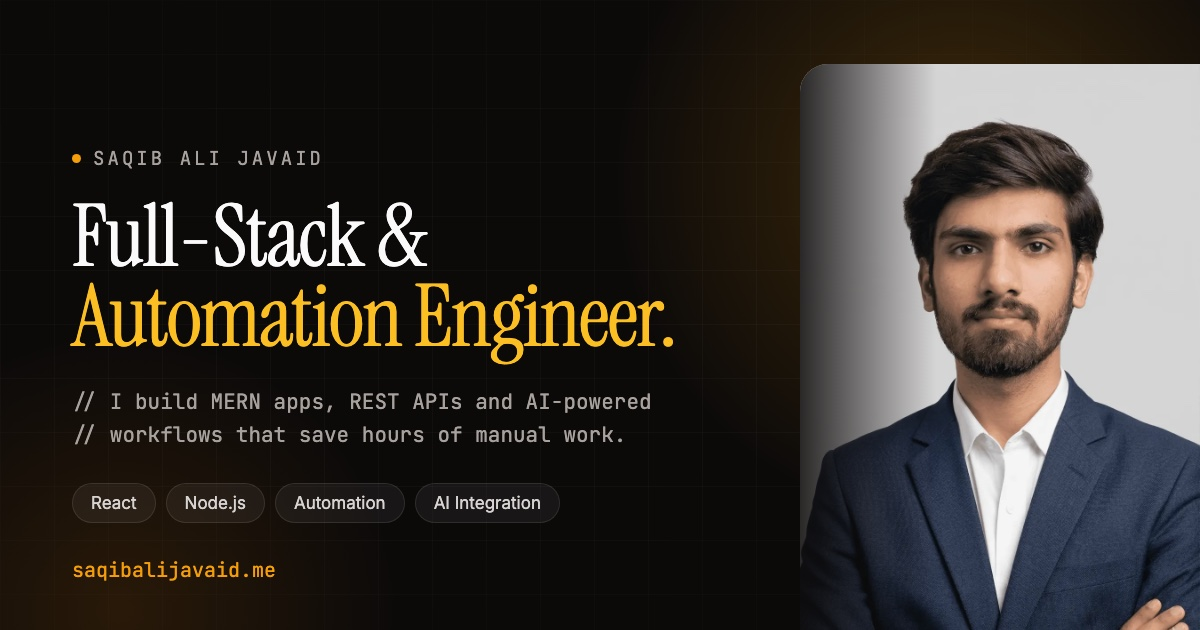
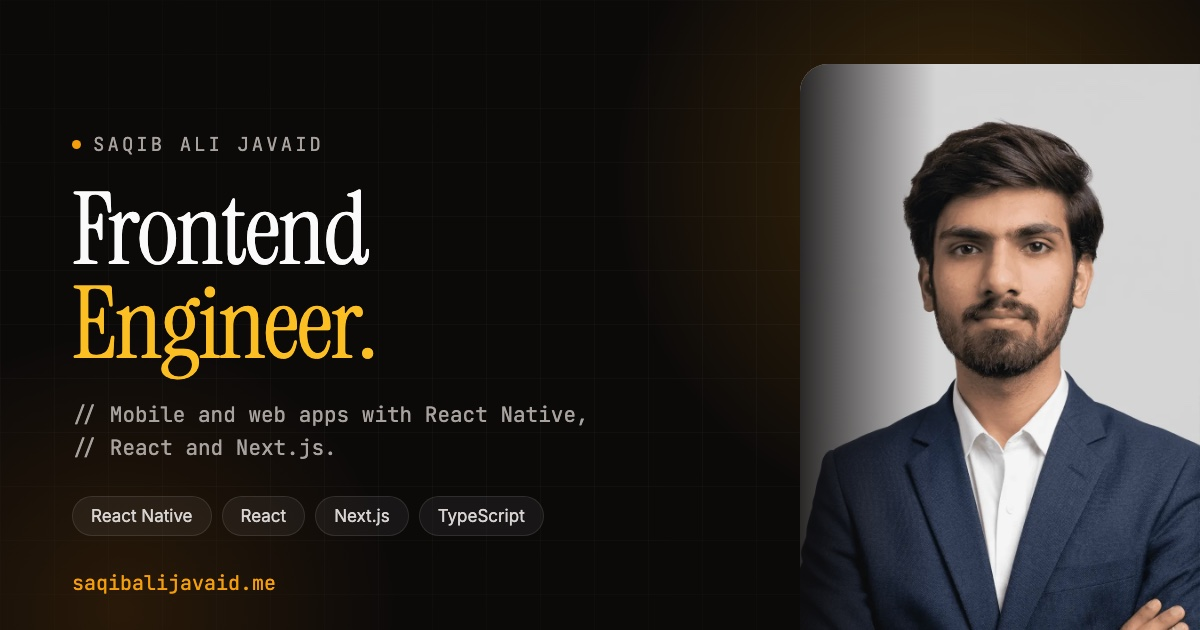
feat: reposition the site from full-stack/automation to frontend
The site sold a full-stack and automation engineer building MERN apps and n8n
workflows. The work is now frontend — React Native, React and Next.js — and the
target is remote frontend roles, so every surface that stated the old
positioning has been rewritten.

Copy
- hero headline "Software Engineer." -> "Frontend Engineer.", with a subheading
  naming the actual stack and stating availability
- page titles, meta descriptions, Open Graph and Twitter tags across all four
  routes, and jobTitle in the Person structured data
- About bio, footer blurb, CTA and contact page
- About stat tile "MERN" -> "React"
- Open Graph card regenerated: the old title was baked into the image

Ordering
- projects now lead with NOVOSOLS (Next.js, SSR, Tailwind design system), then
  ZEFTON reframed around its React and UI work, with the n8n automation last
- tech stack reordered mobile and frontend first, automation last

React Native added to the tech list. The Barq Dev entry in the experience
section already described building mobile apps with it, so its absence from the
stack was an inconsistency rather than a gap.

Also drops the About headline "Building in public — the wins, fails &
everything between". It was creator framing with no published output behind it,
and it read oddly beside an availability statement for engineering roles.

Nothing was invented: no project added, removed, or credited with capabilities
it did not already claim. Only order and framing changed.

diff --git a/src/pages/Projects.tsx b/src/pages/Projects.tsx
@@ -20,36 +20,36 @@ interface ProjectItem {
 
 const projects: ProjectItem[] = [
   {
-    name: 'ZEFTON',
-    tagline: 'Full-Stack E-Commerce Platform',
-    description:
-      'A production e-commerce platform built collaboratively with the MERN stack. End-to-end shopping experience from browsing to checkout.',
-    bullets: [
-      'User authentication with secure session handling',
-      'Product catalog with dynamic routing and filtering',
-      'Cart management and order processing flow',
-      'Responsive UI with integrated REST APIs',
-    ],
-    stack: ['MongoDB', 'Express.js', 'React', 'Node.js', 'Git'],
-    liveUrl: 'https://zefton.vercel.app',
-    liveLabel: 'Visit live site',
-    icon: ShoppingCart,
-  },
-  {
     name: 'NOVOSOLS',
-    tagline: 'Tech Startup Website',
+    tagline: 'Next.js Web Application',
     description:
-      'A dynamic startup website featuring separate user and admin panels. The admin dashboard lets the team manage all website content without touching code.',
+      'A production web application with separate user and admin experiences. The admin dashboard lets the team manage every piece of site content without touching code.',
     bullets: [
-      'Responsive Next.js frontend with SSR',
-      'Express.js backend with secure data handling',
+      'Responsive Next.js frontend with server-side rendering',
+      'Tailwind CSS design system across both panels',
       'Fully functional admin dashboard for content management',
-      'Tailwind CSS design system',
+      'Express.js backend with secure data handling',
     ],
-    stack: ['Next.js', 'Express.js', 'MongoDB', 'Tailwind CSS'],
+    stack: ['Next.js', 'React', 'Tailwind CSS', 'Express.js', 'MongoDB'],
     liveUrl: 'https://novosols.com',
     liveLabel: 'Visit live site',
     icon: Globe,
+  },
+  {
+    name: 'ZEFTON',
+    tagline: 'React E-Commerce Platform',
+    description:
+      'A production e-commerce front end built collaboratively in React. End-to-end shopping experience from browsing to checkout.',
+    bullets: [
+      'Product catalog with dynamic routing and filtering',
+      'Cart management and order processing flow',
+      'Responsive UI wired to REST APIs',
+      'User authentication with secure session handling',
+    ],
+    stack: ['React', 'Node.js', 'Express.js', 'MongoDB', 'Git'],
+    liveUrl: 'https://zefton.vercel.app',
+    liveLabel: 'Visit live site',
+    icon: ShoppingCart,
   },
   {
     name: 'AI Outreach Automation',
@@ -83,8 +83,8 @@ const Projects: React.FC = () => {
             Selected Work
           </h1>
           <p className="mt-6 text-xl text-gray-500 dark:text-gray-400 max-w-3xl mx-auto">
-            Real projects shipped for real clients — full-stack apps, automation pipelines,
-            and systems quietly running in the background while businesses grow.
+            Front ends shipped for real clients — Next.js and React applications running in
+            production, plus the automation work that supports them.
           </p>
           <div className="mt-8 flex items-center justify-center gap-3">
             <a

diff --git a/index.html b/index.html
@@ -28,10 +28,10 @@
     </script>
 
     <!-- SEO:START — replaced per route at build time by scripts/prerender.mjs -->
-    <title>Saqib Ali Javaid — Full-Stack &amp; Automation Engineer</title>
+    <title>Saqib Ali Javaid — Frontend Engineer</title>
     <meta
       name="description"
-      content="Full-stack developer and automation engineer in Lahore, Pakistan. I build MERN apps, REST APIs and AI-powered workflows that save hours of manual work."
+      content="Frontend engineer building mobile and web apps with React Native, React and Next.js. Based in Lahore, Pakistan, open to remote frontend roles."
     />
     <link rel="canonical" href="https://saqibalijavaid.me/" />
     <meta name="robots" content="index, follow, max-image-preview:large" />
@@ -40,27 +40,27 @@
     <meta property="og:site_name" content="Saqib Ali Javaid" />
     <meta property="og:type" content="website" />
     <meta property="og:url" content="https://saqibalijavaid.me/" />
-    <meta property="og:title" content="Saqib Ali Javaid — Full-Stack &amp; Automation Engineer" />
+    <meta property="og:title" content="Saqib Ali Javaid — Frontend Engineer" />
     <meta
       property="og:description"
-      content="I build MERN apps, REST APIs and AI-powered workflows that save hours of manual work."
+      content="Frontend engineer building mobile and web apps with React Native, React and Next.js."
     />
     <meta property="og:image" content="https://saqibalijavaid.me/og-image.jpg" />
     <meta property="og:image:width" content="1200" />
     <meta property="og:image:height" content="630" />
     <meta
       property="og:image:alt"
-      content="Saqib Ali Javaid — Full-Stack Developer &amp; Automation Engineer"
+      content="Saqib Ali Javaid — Frontend Engineer"
     />
     <meta property="og:locale" content="en_US" />
 
     <meta name="twitter:card" content="summary_large_image" />
     <meta name="twitter:site" content="@saqibalijavaid" />
     <meta name="twitter:creator" content="@saqibalijavaid" />
-    <meta name="twitter:title" content="Saqib Ali Javaid — Full-Stack &amp; Automation Engineer" />
+    <meta name="twitter:title" content="Saqib Ali Javaid — Frontend Engineer" />
     <meta
       name="twitter:description"
-      content="I build MERN apps, REST APIs and AI-powered workflows that save hours of manual work."
+      content="Frontend engineer building mobile and web apps with React Native, React and Next.js."
     />
     <meta name="twitter:image" content="https://saqibalijavaid.me/og-image.jpg" />
     <!-- SEO:END -->

diff --git a/src/components/sections/Technologies.tsx b/src/components/sections/Technologies.tsx
@@ -12,19 +12,27 @@ import {
   Braces,
   GitBranch,
   Mail,
+  Smartphone,
 } from 'lucide-react';
 
+/*
+ * Ordered by what the work actually leads with. Mobile and web sit first,
+ * backend and automation follow as supporting capability.
+ *
+ * React Native was missing from this list even though the Barq Dev entry in the
+ * experience section already describes building mobile apps with it — adding it
+ * is correcting an omission, not making a new claim.
+ */
 const techStack = [
-  // Languages
-  { name: 'JavaScript', icon: Braces, type: 'Lang' },
-  { name: 'TypeScript', icon: Code, type: 'Lang' },
-  { name: 'Python', icon: FileCode, type: 'Lang' },
-  { name: 'Kotlin', icon: Code, type: 'Lang' },
+  // Mobile
+  { name: 'React Native', icon: Smartphone, type: 'Mobile' },
 
   // Frontend
   { name: 'React', icon: Layers, type: 'Web' },
   { name: 'Next.js', icon: Terminal, type: 'Web' },
+  { name: 'TypeScript', icon: Code, type: 'Web' },
   { name: 'Tailwind CSS', icon: Layers, type: 'Web' },
+  { name: 'JavaScript', icon: Braces, type: 'Web' },
 
   // Backend
   { name: 'Node.js', icon: Server, type: 'Backend' },
@@ -32,6 +40,10 @@ const techStack = [
   { name: 'FastAPI', icon: Server, type: 'Backend' },
   { name: 'Flask', icon: Server, type: 'Backend' },
   { name: 'Django', icon: Server, type: 'Backend' },
+
+  // Languages
+  { name: 'Python', icon: FileCode, type: 'Lang' },
+  { name: 'Kotlin', icon: Code, type: 'Lang' },
 
   // Data & DevOps
   { name: 'MongoDB', icon: Database, type: 'Data' },
@@ -72,7 +84,8 @@ const Technologies: React.FC = () => {
           Tools I work with daily
         </p>
         <p className="mt-4 max-w-2xl text-xl text-gray-500 dark:text-gray-400 mx-auto font-mono text-sm">
-          // From MERN apps to automation pipelines — a pragmatic stack for shipping real products.
+          // Frontend first — React Native, React and Next.js, with the backend and automation
+          // tooling to ship end to end.
         </p>
       </div>
 

diff --git a/src/components/sections/Features.tsx b/src/components/sections/Features.tsx
@@ -12,22 +12,22 @@ interface ProjectItem {
 
 const projects: ProjectItem[] = [
   {
-    name: 'ZEFTON',
-    tagline: 'E-Commerce Platform',
-    description:
-      'Full-stack MERN e-commerce platform with user authentication, product listings, cart management, and order handling. Dynamic routing and responsive UI.',
-    stack: ['MongoDB', 'Express', 'React', 'Node.js'],
-    liveUrl: 'https://zefton.vercel.app',
-    icon: ShoppingCart,
-  },
-  {
     name: 'NOVOSOLS',
-    tagline: 'Tech Startup Website',
+    tagline: 'Next.js Web Application',
     description:
-      'Dynamic startup site with separate user and admin panels. Responsive Next.js frontend + Express backend and a fully functional admin dashboard to manage content.',
-    stack: ['Next.js', 'Express', 'MongoDB', 'Tailwind'],
+      'Responsive Next.js frontend with server-side rendering and a Tailwind design system, plus a full admin dashboard letting the team manage every piece of site content without touching code.',
+    stack: ['Next.js', 'React', 'Tailwind', 'Express'],
     liveUrl: 'https://novosols.com',
     icon: Globe,
+  },
+  {
+    name: 'ZEFTON',
+    tagline: 'React E-Commerce Platform',
+    description:
+      'Production e-commerce front end built in React — product catalog with dynamic routing and filtering, cart and checkout flow, and a responsive UI wired to REST APIs.',
+    stack: ['React', 'Node.js', 'Express', 'MongoDB'],
+    liveUrl: 'https://zefton.vercel.app',
+    icon: ShoppingCart,
   },
   {
     name: 'AI Outreach Automation',
@@ -53,7 +53,7 @@ const Features: React.FC = () => {
             Things I've built
           </p>
           <p className="mt-4 max-w-2xl text-xl text-gray-500 dark:text-gray-300 lg:mx-auto">
-            Shipped projects — live, in production, solving real problems for real users.
+            Shipped front ends — live, in production, used by real people.
           </p>
         </div>
 

diff --git a/src/pages/About.tsx b/src/pages/About.tsx
@@ -72,15 +72,15 @@ const About: React.FC = () => {
             About Me
           </span>
           <h1 className="font-display font-normal text-5xl md:text-7xl text-gray-900 dark:text-white mb-8 leading-[0.95] max-w-5xl mx-auto">
-            Building in public — <br />
+            I build the parts <br />
             <span className="text-transparent bg-clip-text bg-gradient-to-r from-accent-600 to-accent-800 dark:from-accent-400 dark:to-accent-200">
-              the wins, fails &amp; everything between.
+              people actually touch.
             </span>
           </h1>
           <p className="text-xl md:text-2xl text-gray-500 dark:text-gray-400 max-w-3xl mx-auto leading-relaxed font-light">
-            I'm Saqib — a full-stack developer and automation engineer based in Lahore, Pakistan.
-            I help coaches, consultants, small businesses, and startups build systems that generate
-            leads, save time, and grow revenue.
+            I'm Saqib — a frontend engineer based in Lahore, Pakistan. I build mobile
+            applications with React Native and web applications with React and Next.js, and I'm
+            open to remote frontend roles.
           </p>
         </div>
       </div>
@@ -142,7 +142,7 @@ const About: React.FC = () => {
               <div className="text-sm font-mono text-gray-500 uppercase tracking-wider">Avg Client Rating</div>
             </div>
             <div>
-              <div className="text-4xl font-extrabold text-gray-900 dark:text-white mb-2">MERN</div>
+              <div className="text-4xl font-extrabold text-gray-900 dark:text-white mb-2">React</div>
               <div className="text-sm font-mono text-gray-500 uppercase tracking-wider">Primary Stack</div>
             </div>
           </div>

diff --git a/src/components/sections/Hero.tsx b/src/components/sections/Hero.tsx
@@ -34,7 +34,7 @@ const Hero: React.FC = () => {
               cannot share a row with an image without one of them overflowing.
             */}
             <h1 className="font-display font-normal text-6xl sm:text-7xl lg:text-8xl xl:text-9xl text-gray-900 dark:text-white leading-[0.85] mb-8">
-              Software <br />
+              Frontend <br />
               <span className="text-transparent bg-clip-text bg-gradient-to-r from-accent-600 to-accent-800 dark:from-accent-400 dark:to-accent-200">
                 Engineer.
               </span>
@@ -42,8 +42,8 @@ const Hero: React.FC = () => {
 
             <div className="max-w-2xl mb-10">
               <p className="font-mono text-lg md:text-xl text-gray-500 dark:text-gray-400 leading-relaxed">
-                // Full-stack developer and automation engineer. I build MERN apps, REST APIs,
-                and AI-powered workflows that save hours of manual work.
+                // Frontend engineer building mobile and web apps with React Native, React
+                and Next.js. Open to remote roles.
               </p>
             </div>
 

diff --git a/src/components/layout/Footer.tsx b/src/components/layout/Footer.tsx
@@ -13,8 +13,8 @@ const Footer: React.FC = () => {
               Saqib Ali Javaid<span className="text-gray-900 dark:text-white">.</span>
             </span>
             <p className="mt-4 text-sm text-gray-500 dark:text-gray-400 max-w-md">
-              Full-stack software engineer and automation specialist based in Lahore. Building
-              MERN apps and AI-powered workflows that save hours of manual work.
+              Frontend engineer based in Lahore. Building mobile apps with React Native and
+              web apps with React and Next.js. Open to remote roles.
             </p>
           </div>
 

diff --git a/src/components/sections/CTA.tsx b/src/components/sections/CTA.tsx
@@ -20,7 +20,7 @@ const CTA: React.FC = () => {
           <span className="block text-gray-800">Let's build something together.</span>
         </h2>
         <p className="mt-4 text-lg leading-6 text-gray-800">
-          Available for freelance work and full-stack engineering. Usually reply within 24 hours.
+          Open to remote frontend roles and freelance work. Usually reply within 24 hours.
         </p>
         <div className="mt-8 flex justify-center gap-4">
           {/* Inverts the hero button — amber on dark there, dark on amber here. */}

diff --git a/src/pages/Contact.tsx b/src/pages/Contact.tsx
@@ -79,8 +79,8 @@ const Contact: React.FC = () => {
             Let's talk.
           </h1>
           <p className="mt-4 text-xl text-gray-500 dark:text-gray-400 max-w-2xl mx-auto">
-            Whether it's a full-stack build or an automation you've been meaning to ship — send a
-            message and I'll reply within 24 hours.
+            Open to remote frontend roles, and to freelance React Native, React and Next.js
+            work. Send a message and I'll reply within 24 hours.
           </p>
         </div>
 
